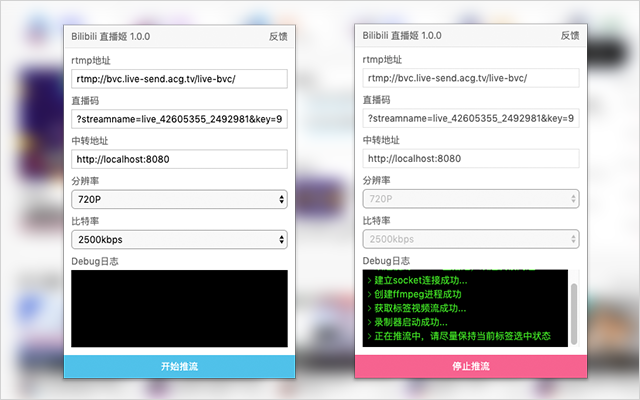
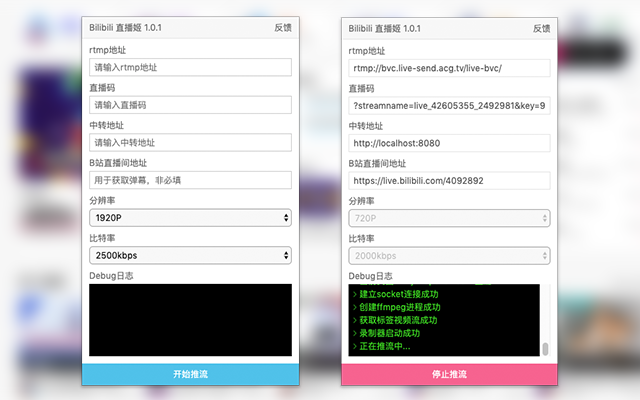
修改截图

diff --git a/packages/client/src/content/index.css b/packages/client/src/content/index.css
@@ -1,2 +1,2 @@
-.blh-danmuku{position:fixed;z-index:9999;top:10px;right:10px;width:280px;font-size:13px;-webkit-user-select:none;-moz-user-select:none;-ms-user-select:none;user-select:none;font-family:Hiragino Sans GB,Microsoft YaHei,\5fae\8f6f\96c5\9ed1,tahoma,arial,simsun,\5b8b\4f53;-webkit-text-size-adjust:100%!important;-moz-text-size-adjust:100%!important;-ms-text-size-adjust:100%!important;text-size-adjust:100%!important;text-rendering:optimizeLegibility!important;-webkit-font-smoothing:antialiased!important;line-height:1;color:#fff;background-color:rgba(0,0,0,.5)}.blh-danmuku *,.blh-danmuku :after,.blh-danmuku :before{box-sizing:border-box}.blh-danmuku ::-webkit-scrollbar{display:block!important;width:5px!important}.blh-danmuku ::-webkit-scrollbar-thumb{background-color:#ccc!important}.blh-danmuku ::-webkit-scrollbar-thumb:hover{background-color:#eee!important}.blh-danmuku.blh-hidden{display:none}.blh-danmuku .blh-header{display:-webkit-box;display:flex;height:20px;border-bottom:1px solid rgba(0,0,0,.2)}.blh-danmuku .blh-header .blh-header-l{-webkit-box-flex:1;flex:1;cursor:move}.blh-danmuku .blh-header .blh-header-r{display:-webkit-box;display:flex;-webkit-box-pack:center;justify-content:center;-webkit-box-align:center;align-items:center;width:20px;font-size:15px;cursor:pointer;color:hsla(0,0%,100%,.8)}.blh-danmuku .blh-danmu{padding:10px;min-height:100px;height:500px;overflow-y:auto;scroll-behavior:smooth;border-bottom:1px solid rgba(0,0,0,.2)}.blh-danmuku .blh-danmu .blh-danmu-inner .blh-danmu-item{text-align:left;line-height:1.4;margin-bottom:10px;text-shadow:0 1px 0 rgba(0,0,0,.1)}.blh-danmuku .blh-danmu .blh-danmu-inner .blh-danmu-item .blh-danmu-uname{color:#cae8ff}.blh-danmuku .blh-danmu .blh-danmu-inner .blh-danmu-item .blh-danmu-text{word-wrap:break-word}.blh-danmuku .blh-gift{padding:10px;height:100px;overflow-y:auto;scroll-behavior:smooth}.blh-danmuku .blh-gift .blh-gift-inner .blh-gift-item{text-align:left;line-height:1.4;margin-bottom:10px;text-shadow:0 1px 0 rgba(0,0,0,.1)}.blh-danmuku .blh-gift .blh-gift-inner .blh-gift-item .blh-gift-uname{color:#cae8ff}.blh-danmuku .blh-footer{height:10px;cursor:ns-resize}
+.blh-danmuku{position:fixed;z-index:9999;top:10px;right:10px;width:280px;font-size:13px;-webkit-user-select:none;-moz-user-select:none;-ms-user-select:none;user-select:none;font-family:Hiragino Sans GB,Microsoft YaHei,\5fae\8f6f\96c5\9ed1,tahoma,arial,simsun,\5b8b\4f53;-webkit-text-size-adjust:100%!important;-moz-text-size-adjust:100%!important;-ms-text-size-adjust:100%!important;text-size-adjust:100%!important;text-rendering:optimizeLegibility!important;-webkit-font-smoothing:antialiased!important;line-height:1;color:#fff;background-color:rgba(0,0,0,.5)}.blh-danmuku *,.blh-danmuku :after,.blh-danmuku :before{box-sizing:border-box}.blh-danmuku ::-webkit-scrollbar{display:block!important;width:5px!important}.blh-danmuku ::-webkit-scrollbar-thumb{background-color:#ccc!important}.blh-danmuku ::-webkit-scrollbar-thumb:hover{background-color:#eee!important}.blh-danmuku.blh-hidden{display:none}.blh-danmuku .blh-header{display:-webkit-box;display:flex;height:25px;border-bottom:1px solid rgba(0,0,0,.2);color:hsla(0,0%,100%,.8)}.blh-danmuku .blh-header .blh-header-l{display:-webkit-box;display:flex;-webkit-box-align:center;align-items:center;-webkit-box-flex:1;flex:1;cursor:move;padding:0 10px;font-size:13px}.blh-danmuku .blh-header .blh-header-r{display:-webkit-box;display:flex;-webkit-box-pack:center;justify-content:center;-webkit-box-align:center;align-items:center;width:25px;font-size:18px;cursor:pointer}.blh-danmuku .blh-danmu{padding:10px;min-height:100px;height:500px;overflow-y:auto;scroll-behavior:smooth;border-bottom:1px solid rgba(0,0,0,.2)}.blh-danmuku .blh-danmu .blh-danmu-inner .blh-danmu-item{text-align:left;line-height:1.4;margin-bottom:10px;text-shadow:0 1px 0 rgba(0,0,0,.1)}.blh-danmuku .blh-danmu .blh-danmu-inner .blh-danmu-item .blh-danmu-uname{color:#cae8ff}.blh-danmuku .blh-danmu .blh-danmu-inner .blh-danmu-item .blh-danmu-text{word-wrap:break-word}.blh-danmuku .blh-gift{padding:10px;height:100px;overflow-y:auto;scroll-behavior:smooth}.blh-danmuku .blh-gift .blh-gift-inner .blh-gift-item{text-align:left;line-height:1.4;margin-bottom:10px;text-shadow:0 1px 0 rgba(0,0,0,.1)}.blh-danmuku .blh-gift .blh-gift-inner .blh-gift-item .blh-gift-uname{color:#cae8ff}.blh-danmuku .blh-footer{height:10px;cursor:ns-resize}
 /*# sourceMappingURL=index.css.map */

diff --git a/packages/client/src/content/dev/index.js b/packages/client/src/content/dev/index.js
@@ -15,6 +15,7 @@ class Content {
     }
 
     createUI() {
+        this.manifest = chrome.runtime.getManifest();
         this.$danmuku = document.createElement('div');
         this.$danmuku.classList.add('blh-danmuku');
         this.$danmuku.innerHTML = `
@@ -37,6 +38,7 @@ class Content {
         this.$gift = query('.blh-gift', this.$danmuku);
         this.$giftInner = query('.blh-gift-inner', this.$danmuku);
         this.$footer = query('.blh-footer', this.$danmuku);
+        this.$headL.textContent = `${this.manifest.name} ${this.manifest.version}`;
         document.body.appendChild(this.$danmuku);
     }
 
@@ -55,12 +57,12 @@ class Content {
             lastPageY = event.pageY;
             lastLeft = this.$danmuku.offsetLeft;
             lastTop = this.$danmuku.offsetTop;
-            lastHeight = this.$danmu.clientHeight;
         });
 
         this.$footer.addEventListener('mousedown', event => {
             isFootDroging = true;
             lastPageY = event.pageY;
+            lastHeight = this.$danmu.clientHeight;
         });
 
         document.addEventListener('mousemove', event => {
@@ -69,6 +71,7 @@ class Content {
                 const y = event.pageY - lastPageY;
                 this.$danmuku.style.transform = `translate(${x}px, ${y}px)`;
             }
+
             if (isFootDroging) {
                 const height = lastHeight + event.pageY - lastPageY;
                 if (height >= 100) {
@@ -77,6 +80,7 @@ class Content {
                     isFootDroging = false;
                 }
             }
+
             if (event.composedPath().indexOf(this.$danmuku) > -1) {
                 this.isHover = true;
             } else {
@@ -93,6 +97,7 @@ class Content {
                 this.$danmuku.style.left = `${x}px`;
                 this.$danmuku.style.top = `${y}px`;
             }
+
             if (isFootDroging) {
                 isFootDroging = false;
             }

diff --git a/packages/client/src/content/index.js b/packages/client/src/content/index.js
@@ -52,6 +52,7 @@ var BilibiliLiveHimeContent = (function () {
     createClass(Content, [{
       key: "createUI",
       value: function createUI() {
+        this.manifest = chrome.runtime.getManifest();
         this.$danmuku = document.createElement('div');
         this.$danmuku.classList.add('blh-danmuku');
         this.$danmuku.innerHTML = "\n            <div class=\"blh-header\">\n                <div class=\"blh-header-l\"></div>\n                <div class=\"blh-header-r\">\xD7</div>\n            </div>\n            <div class=\"blh-danmu\">\n                <div class=\"blh-danmu-inner\"></div>\n            </div>\n            <div class=\"blh-gift\">\n                <div class=\"blh-gift-inner\"></div>\n            </div>\n            <div class=\"blh-footer\"></div>\n        ";
@@ -62,6 +63,7 @@ var BilibiliLiveHimeContent = (function () {
         this.$gift = query('.blh-gift', this.$danmuku);
         this.$giftInner = query('.blh-gift-inner', this.$danmuku);
         this.$footer = query('.blh-footer', this.$danmuku);
+        this.$headL.textContent = "".concat(this.manifest.name, " ").concat(this.manifest.version);
         document.body.appendChild(this.$danmuku);
       }
     }, {
@@ -82,11 +84,11 @@ var BilibiliLiveHimeContent = (function () {
           lastPageY = event.pageY;
           lastLeft = _this.$danmuku.offsetLeft;
           lastTop = _this.$danmuku.offsetTop;
-          lastHeight = _this.$danmu.clientHeight;
         });
         this.$footer.addEventListener('mousedown', function (event) {
           isFootDroging = true;
           lastPageY = event.pageY;
+          lastHeight = _this.$danmu.clientHeight;
         });
         document.addEventListener('mousemove', function (event) {
           if (isHeadDroging) {

diff --git a/packages/client/src/content/dev/index.scss b/packages/client/src/content/dev/index.scss
@@ -39,22 +39,26 @@
 
     .blh-header {
         display: flex;
-        height: 20px;
+        height: 25px;
         border-bottom: 1px solid rgba(0, 0, 0, 0.2);
+        color: rgba(255, 255, 255, 0.8);
 
         .blh-header-l {
+            display: flex;
+            align-items: center;
             flex: 1;
             cursor: move;
+            padding: 0 10px;
+            font-size: 13px;
         }
 
         .blh-header-r {
             display: flex;
             justify-content: center;
             align-items: center;
-            width: 20px;
-            font-size: 15px;
+            width: 25px;
+            font-size: 18px;
             cursor: pointer;
-            color: rgba(255, 255, 255, 0.8);
         }
     }
 

diff --git a/README.md b/README.md
@@ -6,9 +6,9 @@
 
 -   无需安装`OBS`这类直播软件，就可以把浏览器任何页面直播到`B站`、`斗鱼`或者`虎牙`的直播间里去，假如你有自己的直播间并且也安装了`Node.js`的话，那么可以安装这个`Chrome`扩展玩下，适合做无人值守`音乐轮播`或者`电影轮播`什么的。
 
--   后期会把`弹幕姬`的功能也加进去，那就可以做出更丰富的`弹幕互动`直播场景，例如`弹幕点歌`和`语音朗读弹幕`这些小玩意，甚至还可以`弹幕写文章`或者`弹幕玩页游`等等骚操作。
+-   配合`弹幕姬`的功能，那就可以做出更自定义更丰富的`弹幕互动`直播场景，例如`弹幕点歌`、`弹幕点电影`和`语音朗读弹幕`这些小玩意，甚至还可以`弹幕写文章`或者`弹幕玩页游`等骚操作全都能在你的网页用`js`实现，假如你有兴趣折腾的话。
 
--   为什么还需要`Node.js`呢，因为找了一圈也没找到浏览器直接编码和推流的好方案，所以还是需要运行一个简单的`Node.js`程序来做中转服务，不过这个程序只有几十行代码，只要会一点点前端知识就可以用，可以本地运行也可以部署到服务器上，假如部署到了服务器的话，那就真的是做到随时一键直播了。
+-   为什么还需要`Node.js`呢，因为找了一圈也没找到浏览器直接编码和推流的好方案，所以还是需要运行一个简单的`Node.js`程序来做中转服务，不过这个程序只有几十行代码，可以本地运行也可以部署到服务器上，假如部署到了服务器的话，那就真的是做到随时一键直播了。
 
 ## 演示
 
@@ -68,6 +68,29 @@ rtmp://***/{直播码}
 | Twitch 直播  | [https://stream.twitch.tv/ingests/](https://stream.twitch.tv/ingests/)                                                             |
 | Twitch 直播  | [https://dashboard.twitch.tv/settings/channel#stream-preferences](https://dashboard.twitch.tv/settings/channel#stream-preferences) |
 | YouTube 直播 | [https://www.youtube.com/live_dashboard](https://www.youtube.com/live_dashboard)                                                   |
+
+## 弹幕
+
+假如你有填写`B站直播间地址`的话，默认就会生成一个动态简单的弹幕姬，你也可以自定义弹幕行为，只要你的页面有类似下面的代码就能接收到弹幕：
+
+```js
+window.addEventListener('message', event => {
+    const { type, data } = event.data;
+    switch (type) {
+        case 'danmu':
+            console.log('弹幕', data);
+            break;
+        case 'gift':
+            console.log('礼物', data);
+            break;
+        case 'guard':
+            console.log('上船', data);
+            break;
+        default:
+            break;
+    }
+});
+```
 
 ## 捐助
 
